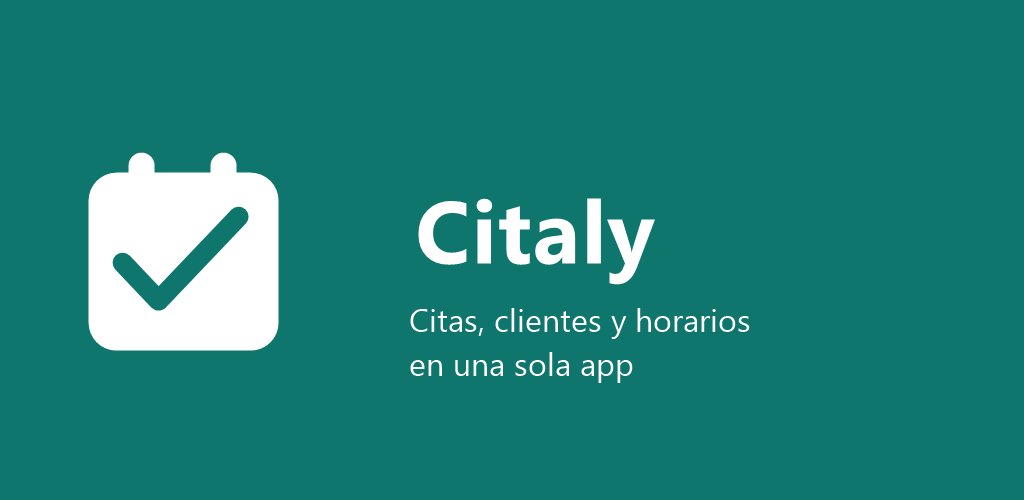
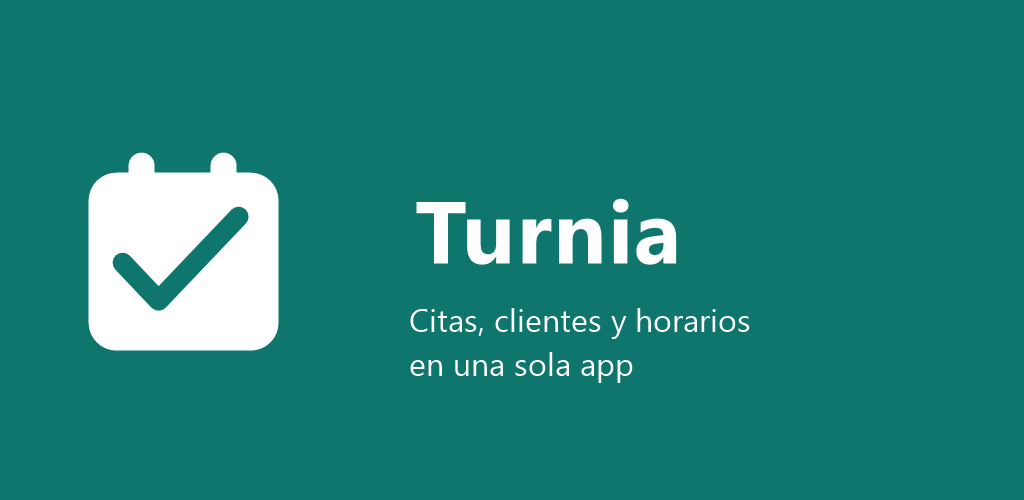
refactor(marca): renombrar la app a Turnia y el paquete a com.turnia.app
Citaly chocaba con una app publicada en Play (com.citaly.app, del mismo rubro), asi que se cambia el nombre y el identificador. Incluye producto turnia_pro_mensual (migracion 0018 aplicada en produccion), paquete Dart turnia, MainActivity movida y grafico destacado rehecho.

Changed region(s): [[0.4062, 0.39, 0.6875, 0.57]]

diff --git a/mobile/test/features/client_booking/booking_link_test.dart b/mobile/test/features/client_booking/booking_link_test.dart
@@ -1,11 +1,11 @@
-import 'package:citaly/features/client_booking/domain/booking_link.dart';
+import 'package:turnia/features/client_booking/domain/booking_link.dart';
 import 'package:flutter_test/flutter_test.dart';
 
 void main() {
   group('parseBookingSlug', () {
     test('acepta el enlace completo del negocio', () {
       expect(
-        parseBookingSlug('https://citaly.app/r/barberia-demo'),
+        parseBookingSlug('https://turnia.app/r/barberia-demo'),
         'barberia-demo',
       );
     });
@@ -13,7 +13,7 @@ void main() {
     test('acepta el enlace con token de seguimiento', () {
       expect(
         parseBookingSlug(
-          'https://citaly.app/r/barberia-demo?c=abc123',
+          'https://turnia.app/r/barberia-demo?c=abc123',
         ),
         'barberia-demo',
       );
@@ -24,8 +24,8 @@ void main() {
     });
 
     test('rechaza enlaces que no son de reservas', () {
-      expect(parseBookingSlug('https://citaly.app/privacidad'), isNull);
-      expect(parseBookingSlug('https://citaly.app'), isNull);
+      expect(parseBookingSlug('https://turnia.app/privacidad'), isNull);
+      expect(parseBookingSlug('https://turnia.app'), isNull);
       expect(parseBookingSlug(''), isNull);
       expect(parseBookingSlug('ab'), isNull);
       expect(parseBookingSlug('con espacios'), isNull);
@@ -35,25 +35,25 @@ void main() {
   group('parseBookingToken', () {
     test('extrae el token del enlace', () {
       expect(
-        parseBookingToken('https://citaly.app/r/x?c=abc123'),
+        parseBookingToken('https://turnia.app/r/x?c=abc123'),
         'abc123',
       );
     });
 
     test('sin token devuelve null', () {
-      expect(parseBookingToken('https://citaly.app/r/x'), isNull);
+      expect(parseBookingToken('https://turnia.app/r/x'), isNull);
       expect(parseBookingToken('barberia-demo'), isNull);
     });
   });
 
   test('bookingLink arma el enlace sin barras duplicadas', () {
     expect(
-      bookingLink('https://citaly.app/', 'mi-barberia'),
-      'https://citaly.app/r/mi-barberia',
+      bookingLink('https://turnia.app/', 'mi-barberia'),
+      'https://turnia.app/r/mi-barberia',
     );
     expect(
-      bookingLink('https://citaly.app', 'mi-barberia'),
-      'https://citaly.app/r/mi-barberia',
+      bookingLink('https://turnia.app', 'mi-barberia'),
+      'https://turnia.app/r/mi-barberia',
     );
   });
 }

diff --git a/mobile/test/features/client_booking/client_booking_screen_test.dart b/mobile/test/features/client_booking/client_booking_screen_test.dart
@@ -1,7 +1,7 @@
-import 'package:citaly/core/config/app_config.dart';
-import 'package:citaly/core/providers/app_providers.dart';
-import 'package:citaly/features/client_booking/presentation/client_booking_screen.dart';
-import 'package:citaly/l10n/app_localizations.dart';
+import 'package:turnia/core/config/app_config.dart';
+import 'package:turnia/core/providers/app_providers.dart';
+import 'package:turnia/features/client_booking/presentation/client_booking_screen.dart';
+import 'package:turnia/l10n/app_localizations.dart';
 import 'package:flutter/material.dart';
 import 'package:flutter_riverpod/flutter_riverpod.dart';
 import 'package:flutter_test/flutter_test.dart';
@@ -52,12 +52,12 @@ void main() {
 
     await tester.enterText(
       find.byType(TextField),
-      'https://citaly.app/r/barberia-demo',
+      'https://turnia.app/r/barberia-demo',
     );
     await tester.tap(find.text('Abrir reservas'));
     await tester.pumpAndSettle();
 
-    expect(opened, Uri.parse('https://citaly.app/r/barberia-demo'));
+    expect(opened, Uri.parse('https://turnia.app/r/barberia-demo'));
     expect(find.text('Última reserva'), findsOneWidget);
   });
 
@@ -91,7 +91,7 @@ void main() {
 
     await tester.enterText(
       find.byType(TextField),
-      'https://citaly.app/r/barberia-demo?c=abc123',
+      'https://turnia.app/r/barberia-demo?c=abc123',
     );
     await tester.tap(find.text('Abrir reservas'));
     await tester.pumpAndSettle();
@@ -112,7 +112,7 @@ void main() {
 
     await tester.enterText(
       find.byType(TextField),
-      'https://citaly.app/privacidad',
+      'https://turnia.app/privacidad',
     );
     await tester.tap(find.text('Abrir reservas'));
     await tester.pumpAndSettle();
@@ -137,7 +137,7 @@ void main() {
       openLink: (uri) async => true,
       prefs: {
         ClientBookingScreen.lastLinkKey:
-            'https://citaly.app/r/barberia-demo?c=abc123',
+            'https://turnia.app/r/barberia-demo?c=abc123',
       },
     );
 

diff --git a/mobile/test/features/business/business_manage_test.dart b/mobile/test/features/business/business_manage_test.dart
@@ -1,12 +1,12 @@
-import 'package:citaly/core/config/app_config.dart';
-import 'package:citaly/core/providers/app_providers.dart';
-import 'package:citaly/features/auth/presentation/providers/auth_providers.dart';
-import 'package:citaly/features/billing/domain/plan.dart';
-import 'package:citaly/features/billing/presentation/providers/billing_providers.dart';
-import 'package:citaly/features/business/domain/business.dart';
-import 'package:citaly/features/business/presentation/business_manage_screen.dart';
-import 'package:citaly/features/business/presentation/providers/business_providers.dart';
-import 'package:citaly/l10n/app_localizations.dart';
+import 'package:turnia/core/config/app_config.dart';
+import 'package:turnia/core/providers/app_providers.dart';
+import 'package:turnia/features/auth/presentation/providers/auth_providers.dart';
+import 'package:turnia/features/billing/domain/plan.dart';
+import 'package:turnia/features/billing/presentation/providers/billing_providers.dart';
+import 'package:turnia/features/business/domain/business.dart';
+import 'package:turnia/features/business/presentation/business_manage_screen.dart';
+import 'package:turnia/features/business/presentation/providers/business_providers.dart';
+import 'package:turnia/l10n/app_localizations.dart';
 import 'package:flutter/material.dart';
 import 'package:flutter_riverpod/flutter_riverpod.dart';
 import 'package:flutter_test/flutter_test.dart';

diff --git a/mobile/test/features/appointments/payment_section_test.dart b/mobile/test/features/appointments/payment_section_test.dart
@@ -1,10 +1,10 @@
-import 'package:citaly/core/providers/app_providers.dart';
-import 'package:citaly/features/appointments/data/appointments_repository.dart';
-import 'package:citaly/features/appointments/domain/appointment.dart';
-import 'package:citaly/features/appointments/presentation/widgets/payment_section.dart';
-import 'package:citaly/features/business/domain/business.dart';
-import 'package:citaly/features/business/presentation/providers/business_providers.dart';
-import 'package:citaly/l10n/app_localizations.dart';
+import 'package:turnia/core/providers/app_providers.dart';
+import 'package:turnia/features/appointments/data/appointments_repository.dart';
+import 'package:turnia/features/appointments/domain/appointment.dart';
+import 'package:turnia/features/appointments/presentation/widgets/payment_section.dart';
+import 'package:turnia/features/business/domain/business.dart';
+import 'package:turnia/features/business/presentation/providers/business_providers.dart';
+import 'package:turnia/l10n/app_localizations.dart';
 import 'package:flutter/material.dart';
 import 'package:flutter_riverpod/flutter_riverpod.dart';
 import 'package:flutter_test/flutter_test.dart';

diff --git a/mobile/test/features/settings/settings_screen_test.dart b/mobile/test/features/settings/settings_screen_test.dart
@@ -1,10 +1,10 @@
-import 'package:citaly/core/config/app_config.dart';
-import 'package:citaly/core/providers/app_providers.dart';
-import 'package:citaly/features/auth/presentation/providers/auth_providers.dart';
-import 'package:citaly/features/business/domain/business.dart';
-import 'package:citaly/features/business/presentation/providers/business_providers.dart';
-import 'package:citaly/features/settings/presentation/settings_screen.dart';
-import 'package:citaly/l10n/app_localizations.dart';
+import 'package:turnia/core/config/app_config.dart';
+import 'package:turnia/core/providers/app_providers.dart';
+import 'package:turnia/features/auth/presentation/providers/auth_providers.dart';
+import 'package:turnia/features/business/domain/business.dart';
+import 'package:turnia/features/business/presentation/providers/business_providers.dart';
+import 'package:turnia/features/settings/presentation/settings_screen.dart';
+import 'package:turnia/l10n/app_localizations.dart';
 import 'package:flutter/material.dart';
 import 'package:flutter_riverpod/flutter_riverpod.dart';
 import 'package:flutter_test/flutter_test.dart';

diff --git a/mobile/test/features/billing/purchase_controller_test.dart b/mobile/test/features/billing/purchase_controller_test.dart
@@ -1,16 +1,16 @@
 import 'dart:convert';
 
-import 'package:citaly/core/api/agenda_api.dart';
-import 'package:citaly/core/providers/app_providers.dart';
-import 'package:citaly/features/billing/domain/plan.dart';
-import 'package:citaly/features/billing/presentation/providers/billing_providers.dart';
+import 'package:turnia/core/api/agenda_api.dart';
+import 'package:turnia/core/providers/app_providers.dart';
+import 'package:turnia/features/billing/domain/plan.dart';
+import 'package:turnia/features/billing/presentation/providers/billing_providers.dart';
 import 'package:flutter_riverpod/flutter_riverpod.dart';
 import 'package:flutter_test/flutter_test.dart';
 import 'package:http/http.dart' as http;
 import 'package:supabase_flutter/supabase_flutter.dart';
 
 const _businessId = 'b1';
-const _productId = 'citaly_pro_mensual';
+const _productId = 'turnia_pro_mensual';
 
 Entitlements _proPlan() {
   return Entitlements.fromJson({

diff --git a/mobile/test/features/billing/plan_test.dart b/mobile/test/features/billing/plan_test.dart
@@ -1,4 +1,4 @@
-import 'package:citaly/features/billing/domain/plan.dart';
+import 'package:turnia/features/billing/domain/plan.dart';
 import 'package:flutter_test/flutter_test.dart';
 
 void main() {
@@ -7,7 +7,7 @@ void main() {
       final plan = Plan.fromJson({
         'id': 'pro',
         'name': 'Pro',
-        'play_product_id': 'citaly_pro_mensual',
+        'play_product_id': 'turnia_pro_mensual',
         'max_staff': null,
         'max_locations': null,
         'max_appointments_per_month': null,
@@ -63,7 +63,7 @@ void main() {
         'source': 'play',
         'auto_renewing': true,
         'current_period_end': '2027-01-01T00:00:00+00:00',
-        'product_id': 'citaly_pro_mensual',
+        'product_id': 'turnia_pro_mensual',
         'usage': {
           'staff_count': 1,
           'appointments_this_month': 12,

diff --git a/mobile/lib/core/config/app_config.dart b/mobile/lib/core/config/app_config.dart
@@ -30,7 +30,7 @@ class AppConfig {
     required this.supabaseAnonKey,
     required this.apiBaseUrl,
     this.publicBaseUrl = '',
-    this.androidPackageName = 'com.citaly.app',
+    this.androidPackageName = 'com.turnia.app',
     this.privacyPolicyUrl =
         'https://agendapro-api-469f.onrender.com/privacidad',
     this.termsUrl = 'https://agendapro-api-469f.onrender.com/terminos',
@@ -56,7 +56,7 @@ class AppConfig {
       publicBaseUrl: const String.fromEnvironment('PUBLIC_BASE_URL'),
       androidPackageName: const String.fromEnvironment(
         'APP_PACKAGE_NAME',
-        defaultValue: 'com.citaly.app',
+        defaultValue: 'com.turnia.app',
       ),
       privacyPolicyUrl: const String.fromEnvironment(
         'PRIVACY_POLICY_URL',

diff --git a/mobile/test/core/free_plan_ad_banner_test.dart b/mobile/test/core/free_plan_ad_banner_test.dart
@@ -1,6 +1,6 @@
-import 'package:citaly/core/widgets/free_plan_ad_banner.dart';
-import 'package:citaly/features/billing/domain/plan.dart';
-import 'package:citaly/features/billing/presentation/providers/billing_providers.dart';
+import 'package:turnia/core/widgets/free_plan_ad_banner.dart';
+import 'package:turnia/features/billing/domain/plan.dart';
+import 'package:turnia/features/billing/presentation/providers/billing_providers.dart';
 import 'package:flutter/material.dart';
 import 'package:flutter_riverpod/flutter_riverpod.dart';
 import 'package:flutter_test/flutter_test.dart';

diff --git a/mobile/test/core/app_config_test.dart b/mobile/test/core/app_config_test.dart
@@ -1,4 +1,4 @@
-import 'package:citaly/core/config/app_config.dart';
+import 'package:turnia/core/config/app_config.dart';
 import 'package:flutter_test/flutter_test.dart';
 
 void main() {
@@ -9,7 +9,7 @@ void main() {
       expect(config.flavor, AppFlavor.dev);
       expect(config.isDev, isTrue);
       expect(config.apiBaseUrl, 'http://10.0.2.2:8000');
-      expect(config.androidPackageName, 'com.citaly.app');
+      expect(config.androidPackageName, 'com.turnia.app');
     });
 
     test('sin variables de compilación Supabase no está configurado', () {

diff --git a/mobile/test/features/auth/login_screen_test.dart b/mobile/test/features/auth/login_screen_test.dart
@@ -1,6 +1,6 @@
-import 'package:citaly/core/providers/app_providers.dart';
-import 'package:citaly/features/auth/data/auth_repository.dart';
-import 'package:citaly/features/auth/presentation/login_screen.dart';
+import 'package:turnia/core/providers/app_providers.dart';
+import 'package:turnia/features/auth/data/auth_repository.dart';
+import 'package:turnia/features/auth/presentation/login_screen.dart';
 import 'package:flutter/material.dart';
 import 'package:flutter_test/flutter_test.dart';
 import 'package:supabase_flutter/supabase_flutter.dart';

diff --git a/mobile/web/index.html b/mobile/web/index.html
@@ -23,13 +23,13 @@
   <!-- iOS meta tags & icons -->
   <meta name="mobile-web-app-capable" content="yes">
   <meta name="apple-mobile-web-app-status-bar-style" content="black">
-  <meta name="apple-mobile-web-app-title" content="Citaly">
+  <meta name="apple-mobile-web-app-title" content="Turnia">
   <link rel="apple-touch-icon" href="icons/Icon-192.png">
 
   <!-- Favicon -->
   <link rel="icon" type="image/png" href="favicon.png"/>
 
-  <title>Citaly</title>
+  <title>Turnia</title>
   <link rel="manifest" href="manifest.json">
 </head>
 <body>
